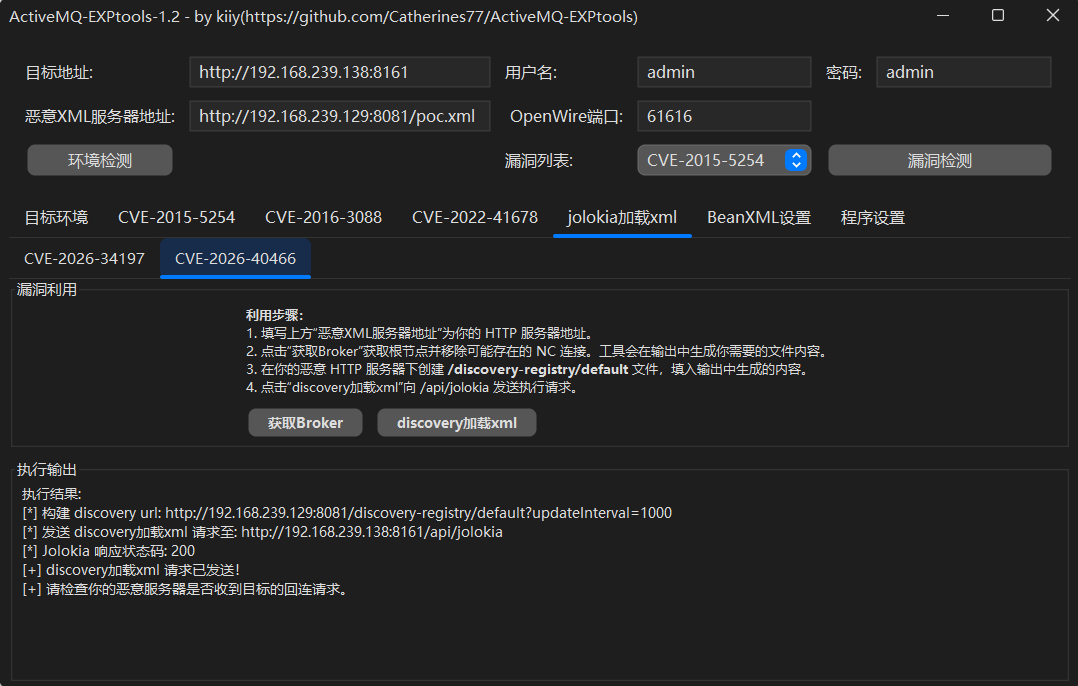
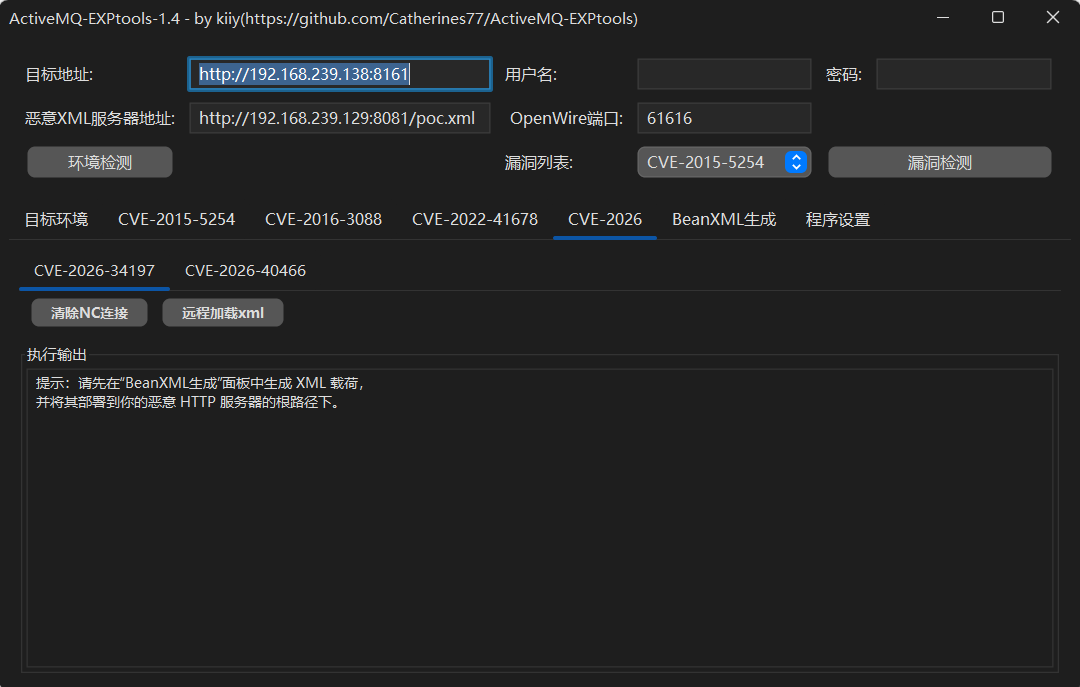
1.4 version

diff --git a/README.md b/README.md
@@ -35,17 +35,17 @@ java-chains生成反序列化数据，验证漏洞时可以用URLDNS
 
 首先在MemShellParty生成对应内存马base64字符串https://party.mem.mk/ui
 
-![image-20260508110638599](.\images\4.png)
+![image-20260508110638599](./images/4.png)
 
 然后来到java-chains，找到Generate-OtherPayload，选择自定义字节码
 
-![0](.\images\3.png)
+![0](./images/3.png)
 
 根据jdk版本选择base64解码方法，默认为decodeFromString方法，而vulhub中的CVE-2026-34197靶场需要选择java.util.Base64
 
 最后填入内存马Base64字符串，点击生成即可
 
-![image-20260508110858921](.\images\5.png)
+![image-20260508110858921](./images/5.png)
 
 Filter，Listener或Servlet类型，在内存马连接地址处需要加上路径/admin/，/api/，以及认证头部，handler无需路径以及认证头部字段
 
